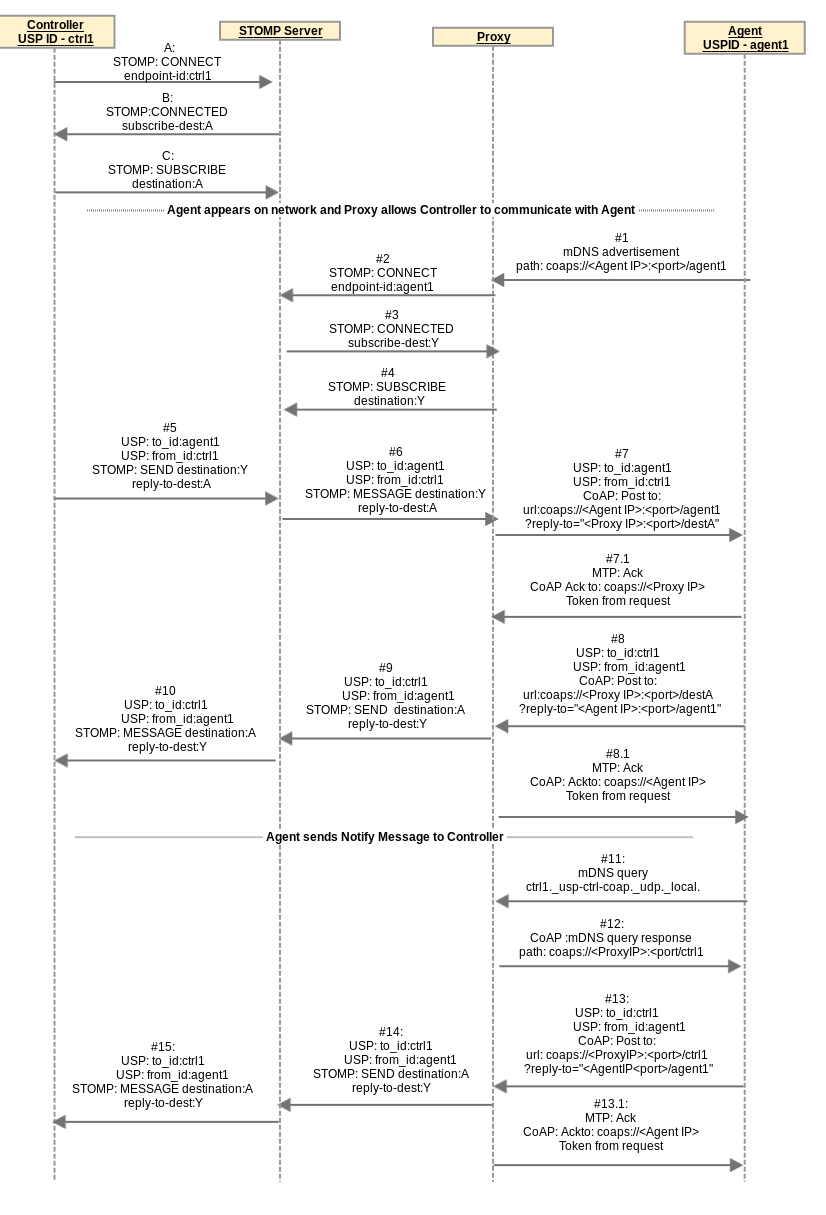
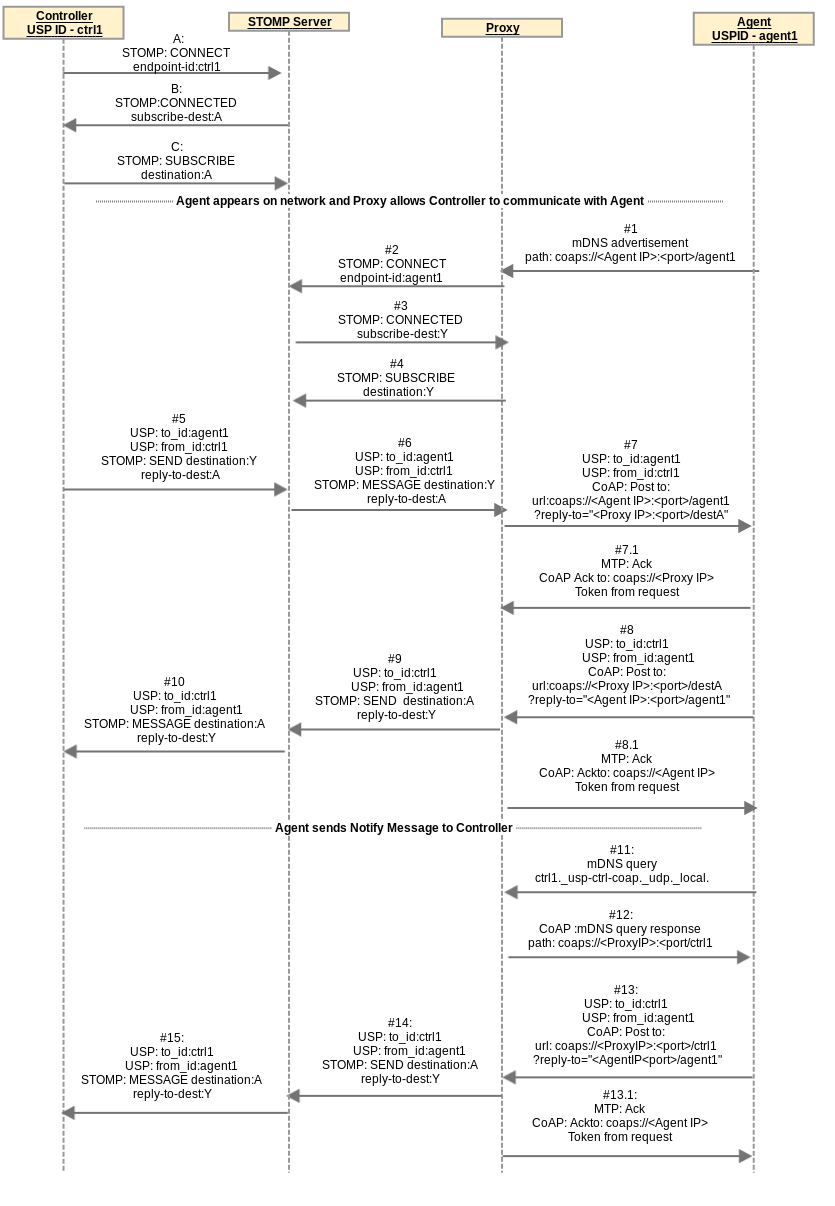
Fix bold, internal xrefs

Changed region(s): [[0.0, 0.0, 0.9685, 0.9818]]

diff --git a/specification/extensions/proxying/index.md b/specification/extensions/proxying/index.md
@@ -48,8 +48,9 @@ The types of proxies described are:
 
 ## Proxying Building Block Functions
 
-These proxies are comprised of one or more of the building block functions described in the Table PRX.1.
+These proxies are comprised of one or more of the building block functions described in the [Table PRX.1](#table_PRX1).
 
+<a id='table_PRX1' />
 Table PRX.1: Proxy Building Block Functions
 
 | Function | Description |
@@ -66,7 +67,7 @@ Table PRX.1: Proxy Building Block Functions
 
 ## Discovery Proxy
 
-A Discovery Proxy simply repeats the exact information that it discovers from Endpoints. This is particularly useful in a multi-segment LAN, where mDNS messages do not cross segment boundaries. The [DNS-SD Discovery Proxy](https://tools.ietf.org/html/draft-ietf-dnssd-hybrid) functionality is recommended as a component of a Discovery Proxy. When used inside a LAN, this would need the *Non-USP Discovery Function* and the *Non-USP Advertisement Function* described in Table PRX.1.
+A Discovery Proxy simply repeats the exact information that it discovers from Endpoints. This is particularly useful in a multi-segment LAN, where mDNS messages do not cross segment boundaries. The [DNS-SD Discovery Proxy](https://tools.ietf.org/html/draft-ietf-dnssd-hybrid) functionality is recommended as a component of a Discovery Proxy. When used inside a LAN, this would need the *Non-USP Discovery Function* and the *Non-USP Advertisement Function* described in [Table PRX.1](#table_PRX1).
 
 An *Agent USP Advertisement Function* would be needed to support Endpoints in different networks (e.g., discovery of Agents on the LAN by a Controller on the WAN).
 
@@ -80,15 +81,15 @@ This describes proxying of discovery and IP connectivity of Endpoints that need 
 
 Both Endpoints must be using the same MTP. This Proxy translates the IP address (and possibly the TCP or UDP port) from the Connectivity Proxy to the proxied Endpoint, but does not touch (or need to understand) the MTP headers or USP Message.
 
-It is also possible to combine the caching functionality with the MTP Proxy, by adding the Caching Function to the MTP Proxy (see Section 3).
+It is also possible to combine the caching functionality with the MTP Proxy, by adding the *Caching Function* to the MTP Proxy (see Section 3).
 
-In order to serve as a Connectivity Proxy, the following functions (from Table PRX.1) are needed:
+In order to serve as a Connectivity Proxy, the following functions (from [Table PRX.1](#table_PRX1)) are needed:
 1. *L3/4 Translation Function*
 1. Depending on whether the proxy is on the same network as the proxied Endpoints:
    1. *Non-USP Discovery Function* and/or otherwise determined/configured knowledge of Agent(s)
    1. *Non-USP Advertisement Function* and/or *Agent USP Advertisement Function*
 
-The Connectivity Proxy can also include the Caching Function to support Endpoints with intermittent connectivity.
+The Connectivity Proxy can also include the *Caching Function* to support Endpoints with intermittent connectivity.
 
 <a id='MTP_proxy' />
 
@@ -96,13 +97,14 @@ The Connectivity Proxy can also include the Caching Function to support Endpoint
 
 This describes proxying between two USP Endpoints that do not support a common MTP. The USP Record is untouched by the proxy function. MTP and IP headers are changed by the proxy.
 
-In order to serve as a MTP Proxy, the following functions (from Table PRX.1) are needed:
+In order to serve as a MTP Proxy, the following functions (from [Table PRX.1](#table_PRX1)) are needed:
 
 1. *MTP Translation Function*
 1. Depending on whether it is on the same network as the proxied Agents and/or the Controller that wants to communicate with those Agents:
    1. *Non-USP Discovery Function* and/or otherwise determined/configured knowledge of Agent(s)
    1. *Non-USP Advertisement Function* and/or *Agent USP Advertisement Function* 
-The MTP Proxy can also include the Caching Function to support Endpoints with intermittent connectivity.
+
+The MTP Proxy can also include the *Caching Function* to support Endpoints with intermittent connectivity.
 
 <a id='MTP_header_translation_algorithms' />
 
@@ -135,13 +137,13 @@ Table PRX.2: Possible MTP Proxy Methods
 |  | Identify target USP Endpoint for a received message | possible source: received CoAP *uri-path* | put value from a maintained mapping in *uri-path* and use IP address and port from mapping |
 | WebSocket | Maintain mapping of discovered/configured info to advertised info | store WebSocket connection info (and Endpoint ID, if socket is used for more than one Endpoint) with "reply to" and/or connectivity info for other MTP | establish WebSocket connection or associate Endpoint with existing connection, for discovered info |
 |  | Maintain mapping of received info | store WebSocket connection info (and Endpoint ID, if socket is used for more than one Endpoint) with "reply to" and/or connectivity info for other MTP | store the supplied "reply to" and/or connectivity info with a WebSocket connection (and Endpoint ID, if socket is used for more than one Endpoint) |
-|  | Identify target USP Endpoint for a received message | possible source: WebSocket connection established per proxied Endpoint / possible source: to\_id in USP Record | send over WebSocket connection associated with the proxied Endpoint |
+|  | Identify target USP Endpoint for a received message | possible source: WebSocket connection established per proxied Endpoint <br> possible source: to\_id in USP Record | send over WebSocket connection associated with the proxied Endpoint |
 | STOMP | Maintain mapping of discovered/configured info to advertised info | store subscribed-to STOMP destination with "reply to" and/or connectivity info for other MTP | subscribe to STOMP destination for discovered info |
 |  | Maintain mapping of received info | store *reply-to-dest* STOMP header (and associated STOMP connection) with "reply to" or socket info of the sent message | store the supplied "reply to" and/or connectivity info with subscribed-to STOMP destination and connection |
-|  | Identify target USP Endpoint for a received message | possible source: received STOMP *destination* / possible source: to\_id in USP Record | put value from maintained mapping in STOMP destination header and use STOMP connection from that mapping |
+|  | Identify target USP Endpoint for a received message | possible source: received STOMP *destination* <br> possible source: to\_id in USP Record | put value from maintained mapping in STOMP destination header and use STOMP connection from that mapping |
 | MQTT | Maintain mapping of discovered/configured info to advertised info | store subscribed-to Topic (Filter) with "reply to" and/or connectivity info for other MTP | subscribe to MQTT Topic (Filter) for discovered info (if Topic Filter, know which specific Topic to use for "reply to" info) |
 |  | Maintain mapping of received info | store Response Topic or other provided "reply to" info (and associated MQTT connection) with "reply to" or connectivity info of the sent message | store the supplied "reply to" and/or connectivity info with a specific MQTT Topic (within subscribed-to Topic Filter) and connection |
-|  | Identify target USP Endpoint for a received message | possible source: received MQTT `PUBLISH` Topic Name / possible source: to\_id in USP Record | put value from maintained mapping in MQTT `PUBLISH` Topic Name and use MQTT connection from that mapping |
+|  | Identify target USP Endpoint for a received message | possible source: received MQTT `PUBLISH` Topic Name <br> possible source: to\_id in USP Record | put value from maintained mapping in MQTT `PUBLISH` Topic Name and use MQTT connection from that mapping |
 
 Figure PRX.1 shows an example of how an MTP Proxy might be used to proxy between an MTP used by a Cloud Server in the WAN and an MTP used inside the LAN. It also shows proxying between MTPs and internal APIs used to communicate with multiple Agents internal to the Services Gateway.
 
@@ -168,32 +170,32 @@ Assumptions include:
 
 Figure PRX.2: CoAP-STOMP MTP Proxy Example Flow
 
-_Controller connects to the STOMP server_
+**Controller connects to the STOMP server**
 
-_A / B / C_ At any point prior to #5 the USP Controller Endpoint ctrl1 connects to STOMP and subscribes to destination A
+**A / B / C**  At any point prior to #5 the USP Controller Endpoint ctrl1 connects to STOMP and subscribes to destination A
 
 * OUT OF SCOPE how the USP Endpoint ctrl1 destination A is discovered by Proxy
 * OUT OF SCOPE how the proxied USP Endpoint agent1 STOMP destination Y is discovered by USP Endpoint ctrl1
 
 Agent appears on network and Proxy allows Controller to communicate with Agent
 
-_#1_ The USP Endpoint agent1 appears on the network. Proxy receives advertisement and gets the USP Endpoint identifier "agent1" of the Agent (retrieved from mDNS advertisement see R-DIS.8).
+**#1** The USP Endpoint agent1 appears on the network. Proxy receives advertisement and gets the USP Endpoint identifier "agent1" of the Agent (retrieved from mDNS advertisement see R-DIS.8).
 
-_#2_ Proxy sends a CONNECT frame to the STOMP server with endpoint-id header of "agent1".
+**#2** Proxy sends a CONNECT frame to the STOMP server with endpoint-id header of "agent1".
 
-_#3_ Proxy receives a subscribe-dest header in the CONNECTED frame identifying the STOMP destination it needs to subscribe to on behalf of agent1.
+**#3** Proxy receives a subscribe-dest header in the CONNECTED frame identifying the STOMP destination it needs to subscribe to on behalf of agent1.
 
-_#4_ The Proxy sends a SUBSCRIBE frame to the STOMP server with destination:Y and stores a mapping of USP Endpoint agent1 with coaps:://\<Agent IP\>:\<port\>/agent1 to this STOMP connection with destination Y.
+**#4** The Proxy sends a SUBSCRIBE frame to the STOMP server with destination:Y and stores a mapping of USP Endpoint agent1 with coaps:://\<Agent IP\>:\<port\>/agent1 to this STOMP connection with destination Y.
 
-_#5 / #6_ USP Endpoint ctrl1 initiates USP message to agent. Proxy creates a STOMP reply-to-dest:A (on this STOMP connection) to coaps:://\<Proxy IP\>:\<port\>/destA mapping.
+**#5 / #6** USP Endpoint ctrl1 initiates USP message to agent. Proxy creates a STOMP reply-to-dest:A (on this STOMP connection) to coaps:://\<Proxy IP\>:\<port\>/destA mapping.
 
-_#7/ #7.1_ Proxy takes USP Record from the STOMP frame and sends it in a CoAP payload with CoAP URI coming from the step #4 mapping of STOMP destination Y to coap:://\<Agent IP\>:\<port\>/agent1. To secure the communication, the proxy and Agent establish a DTLS session (exchange certificates) and the Agent determines whether the proxy is a Trusted Broker.
+**#7/ #7.1** Proxy takes USP Record from the STOMP frame and sends it in a CoAP payload with CoAP URI coming from the step #4 mapping of STOMP destination Y to coap:://\<Agent IP\>:\<port\>/agent1. To secure the communication, the proxy and Agent establish a DTLS session (exchange certificates) and the Agent determines whether the proxy is a Trusted Broker.
 
-_#8 / #8.1_  USP Endpoint agent1 sends a USP Record in reply to ctrl1 using CoAP, to coaps:://\<Proxy IP\>:\<port\>/destA.
+**#8 / #8.1**  USP Endpoint agent1 sends a USP Record in reply to ctrl1 using CoAP, to coaps:://\<Proxy IP\>:\<port\>/destA.
 
-_#9 / #10_ Proxy takes USP Record from the CoAP payload and sends it in a STOMP SEND frame using the mapping (created in steps #5 / #6) of coaps:://\<Proxy IP\>:\<port\>/destA to STOMP destination A (and associated STOMP connection) created in steps #5 / #6 .
+**#9 / #10** Proxy takes USP Record from the CoAP payload and sends it in a STOMP SEND frame using the mapping (created in steps #5 / #6) of coaps:://\<Proxy IP\>:\<port\>/destA to STOMP destination A (and associated STOMP connection) created in steps #5 / #6 .
 
-_Agent sends Notify Message to Controller_
+**Agent sends Notify Message to Controller**
 
 These steps include the following additional assumptions:
 * Controller has configured Agent with a notification subscription.
@@ -201,13 +203,13 @@ These steps include the following additional assumptions:
 * Proxy replies to mDNS queries for Controller with "ctrl1" Instance. Controller was able to assume or otherwise determine that Proxy would do this and that its proxied CoAP connection would be discoverable by querying for ctrl1.\_usp-ctrl-coap.\_udp.\_local.
 * Proxy can use the previous reply-to-dest header value to reach this Controller
 
-_#11_ The Agent sends mDNS query for ctrl1.\_usp-ctrl-coap.\_udp.\_local. 
+**#11** The Agent sends mDNS query for ctrl1.\_usp-ctrl-coap.\_udp.\_local. 
 
-_#12_ The Proxy response to the Agent includes TXT record with path of coaps:://\<Proxy IP\>:\<port\>/ctrl1. This provides a URL for the Agent to use to send a Notify Message to the Controller.
+**#12** The Proxy response to the Agent includes TXT record with path of coaps:://\<Proxy IP\>:\<port\>/ctrl1. This provides a URL for the Agent to use to send a Notify Message to the Controller.
 
-_#13 / #13.1_ The Agent may sends a Notify Message to Controller at coaps:://\<Proxy IP\>:\<port\>/ctrl1.
+**#13 / #13.1** The Agent may sends a Notify Message to Controller at coaps:://\<Proxy IP\>:\<port\>/ctrl1.
 
-_#14 / #15_ Proxy takes the USP Record from the CoAP payload and sends it in a STOMP SEND frame using the mapping (stored in #5 / #6 ) of coaps:://\<Proxy IP\>:\<port\>/destA to STOMP destination:A (and associated STOMP connection).
+**#14 / #15** Proxy takes the USP Record from the CoAP payload and sends it in a STOMP SEND frame using the mapping (stored in #5 / #6 ) of coaps:://\<Proxy IP\>:\<port\>/destA to STOMP destination:A (and associated STOMP connection).
 
 <a id='USP_to_non-USP_proxy' />
 
@@ -215,4 +217,4 @@ _#14 / #15_ Proxy takes the USP Record from the CoAP payload and sends it in a S
 
 This describes proxying between a Controller and some other management protocol with its own data model schema (e.g., UPnP DM, ZigBee, NETCONF, RESTCONF). In this case the proxy is expected to maintain a USP representation of the non-USP data. This requires the proxy to expose itself as a full Agent to the Controller. See the [Device Proxy](../device-proxy/index.md) appendix for the Theory of Operations for the `Device.ProxiedDevice.` object defined in the [Device:2 Data Model][1].
 
-In order to serve as a USP to non-USP Proxy, the *USP to non-USP Translation Function* is needed.
+In order to serve as a USP to non-USP Proxy, the *USP to non-USP Translation Function* (from [Table PRX.1](#table_PRX1)) is needed.
